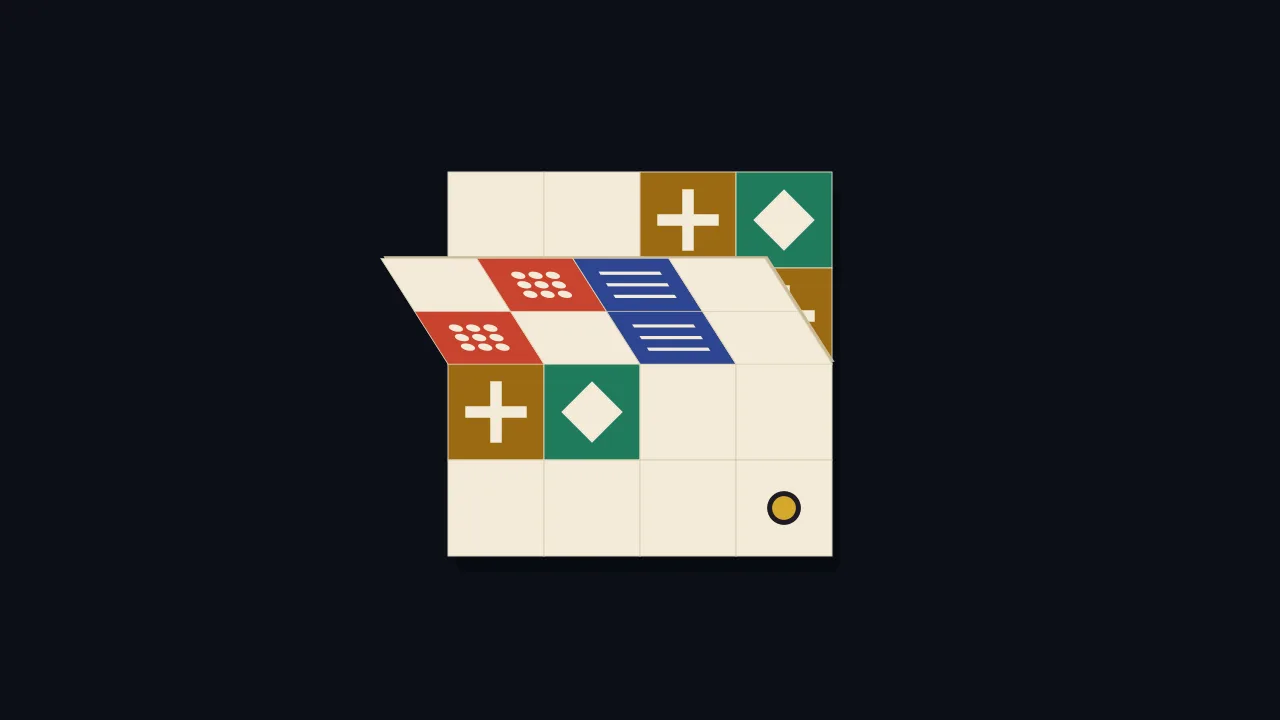
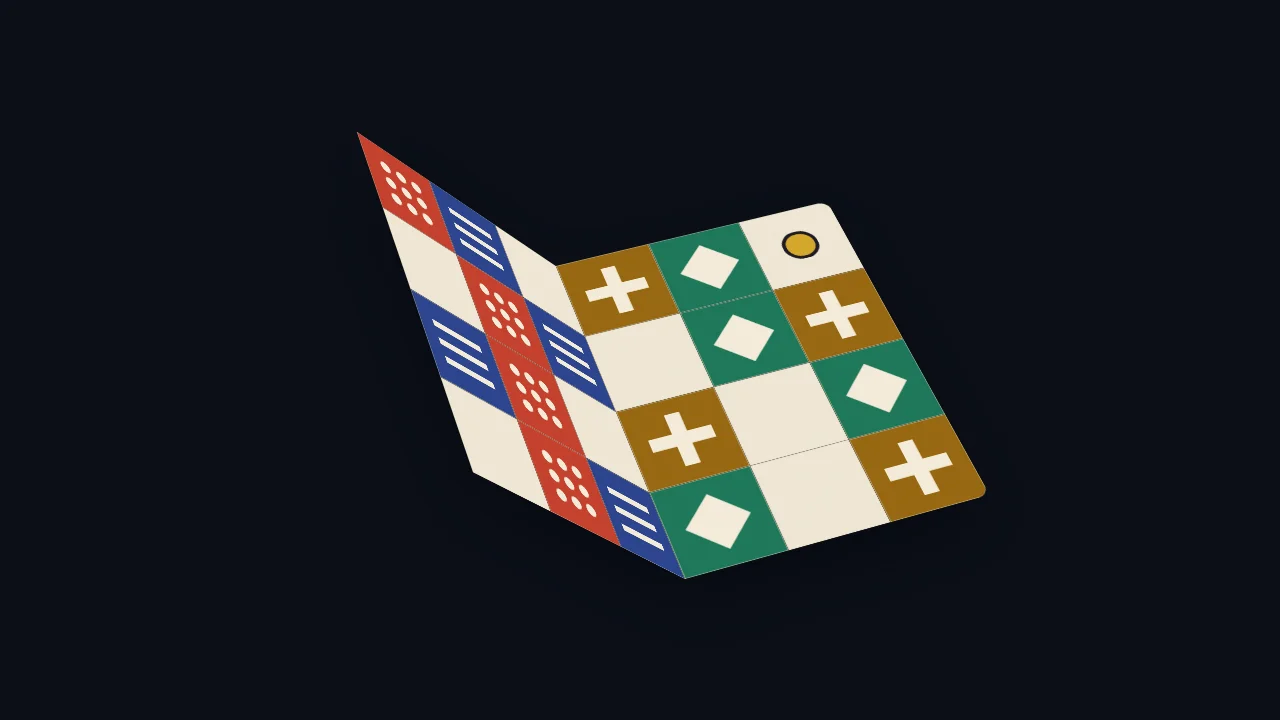
feat(fold): replace the placeholder cover with the final artwork
The cover now uses the game's own rendering: a sheet caught mid-fold,
seen at an angle, like the Tilt and Prism tiles in the catalog.

Changed region(s): [[0.2812, 0.1833, 0.7812, 0.825]]

diff --git a/specs/fold/BUILD-PLAN.md b/specs/fold/BUILD-PLAN.md
@@ -128,7 +128,7 @@ son pendant la pause.
 
 **Critère :** tous les critères [manuel] revérifiés sur un téléphone réel.
 
-**Statut :** à faire.
+**Statut :** fait.
 
 **Prompt :**
 ```
